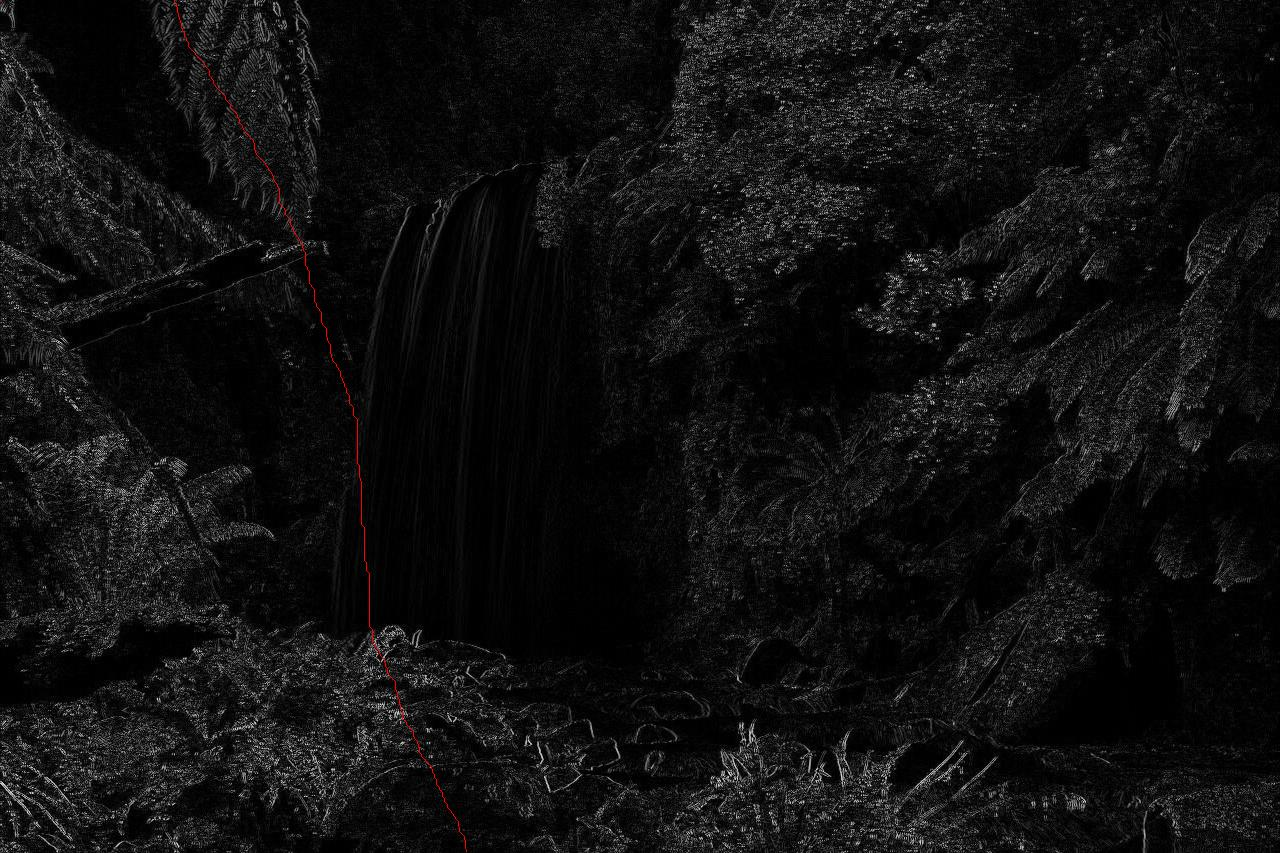
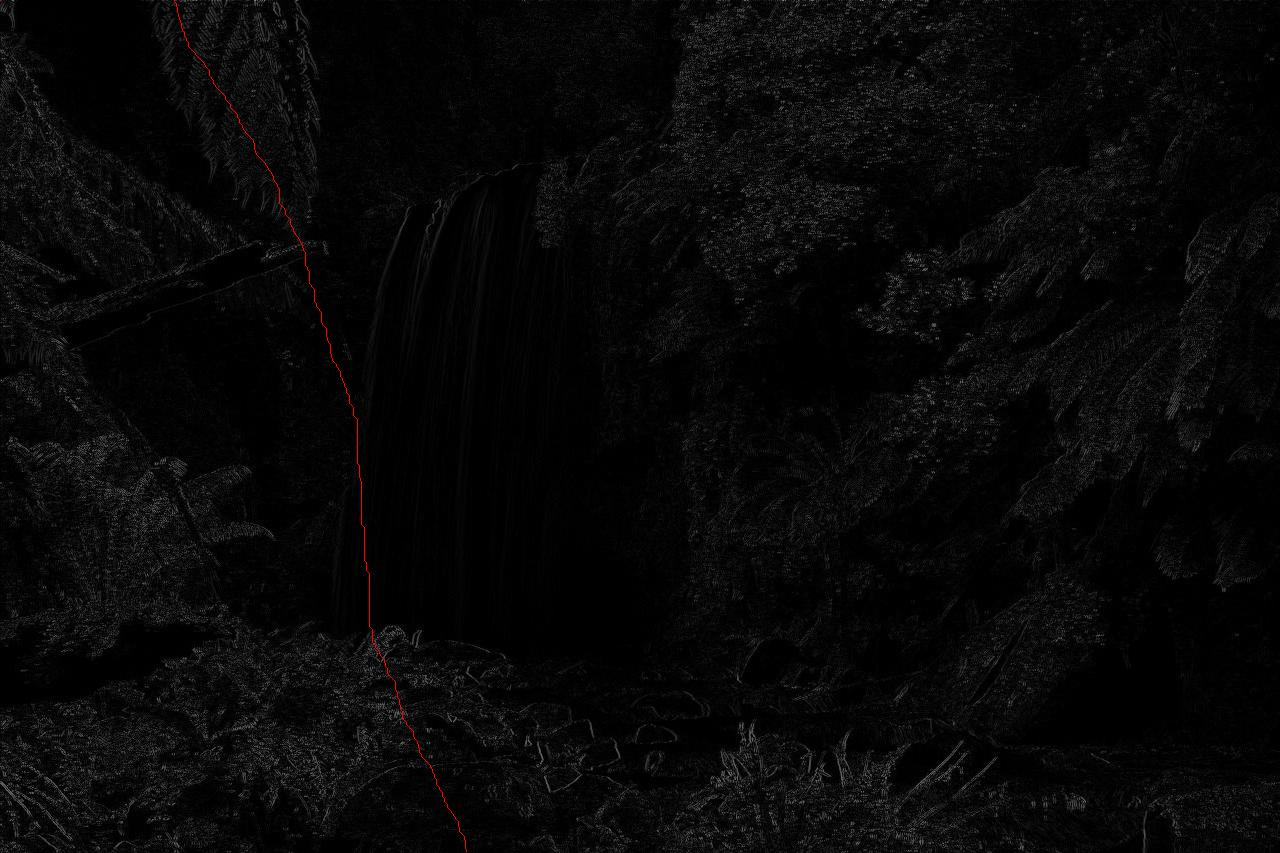
update energy

diff --git a/seam-carving/src/net/seamcarving/carve/Energy.java b/seam-carving/src/net/seamcarving/carve/Energy.java
@@ -13,6 +13,8 @@ public class Energy {
 
         int energyAM;
 
+        //x is width
+        //y is height
         for (int x = 0; x<img.width; x++){
             for(int y = 0; y<img.height; y++){
                 //getting current pixel color
@@ -35,6 +37,64 @@ public class Energy {
                 Color newColor = new Color(energyAM, energyAM, energyAM); //making image mono-chrome
 
                 img.result.setRGB(x, y, newColor.getRGB()); //setting pixel
+            }
+        }
+    }
+
+    public static void toEnergyDarker(Img img) {
+        Color defaultColor;
+        Color color1, color2;
+
+        int c1, c2, c3;
+
+        int r, g, b;
+        int smallest = 0;
+        int smallest2;
+        int energyAM;
+
+        for (int x = 0; x<img.width; x++){
+            for(int y = 0; y<img.height; y++){
+                //getting current pixel color
+                defaultColor = img.rgbColor(x, y);
+                color1 = defaultColor;
+                color2 = defaultColor;
+
+                //out of bounds
+                if (x != 0) color1 = img.rgbColor(x-1, y);
+                if (x != img.width-1) color2 = img.rgbColor(x+1, y);
+
+                //actually image become sharper after dividing by 2
+                r = (color1.getRed() - color2.getRed())/2;
+                g = (color1.getGreen() - color2.getGreen())/2;
+                b = (color1.getBlue() - color2.getBlue())/2;
+
+                Color energy = new Color((int)sqrt(r*r + g*g + b*b)); //calculating energy
+                energyAM = energy.getRed() + energy.getBlue() + energy.getGreen(); //calculating arithmetic mean
+
+                Color newColor = new Color(energyAM, energyAM, energyAM); //making image mono-chrome
+
+                img.result.setRGB(x, y, newColor.getRGB()); //setting pixel
+
+                if (y != 0){
+                    c1 = new Color(img.result.getRGB(x, y-1)).getBlue();
+
+                    if ((x != 0) && (x != img.width-1))  {
+                        c2 = new Color(img.result.getRGB(x-1, y-1)).getBlue();
+                        c3 = new Color(img.result.getRGB(x+1, y-1)).getBlue();
+                        smallest = Math.min(c1, Math.min(c2, c3));
+                    } else if (x == 0) {
+                        c3 = new Color(img.result.getRGB(x+1, y-1)).getBlue();
+                        smallest = Math.min(c1, c3);
+                    } else if (x == img.width-1) {
+                        c2 = new Color(img.result.getRGB(x-1, y-1)).getBlue();
+                        smallest = Math.min(c1, c2);
+                    }
+                    smallest2 = (smallest + energyAM)/2;
+
+                    Color newColor2 = new Color(smallest2, smallest2, smallest2);
+
+                    img.result.setRGB(x, y, newColor2.getRGB());
+                }
             }
         }
     }

diff --git a/seam-carving/src/net/seamcarving/carve/Main.java b/seam-carving/src/net/seamcarving/carve/Main.java
@@ -9,7 +9,7 @@ public class Main {
         Img temp = new Img("falls-temp.jpg");
         Img output = new Img("falls-result.jpg");
 
-        Energy.toEnergy(img);
+        Energy.toEnergyDarker(img);
         ImageIO.write(img.result, img.extension, temp.file); //writing result to file
 
         int [][] path = Carving.pathFind(img);
